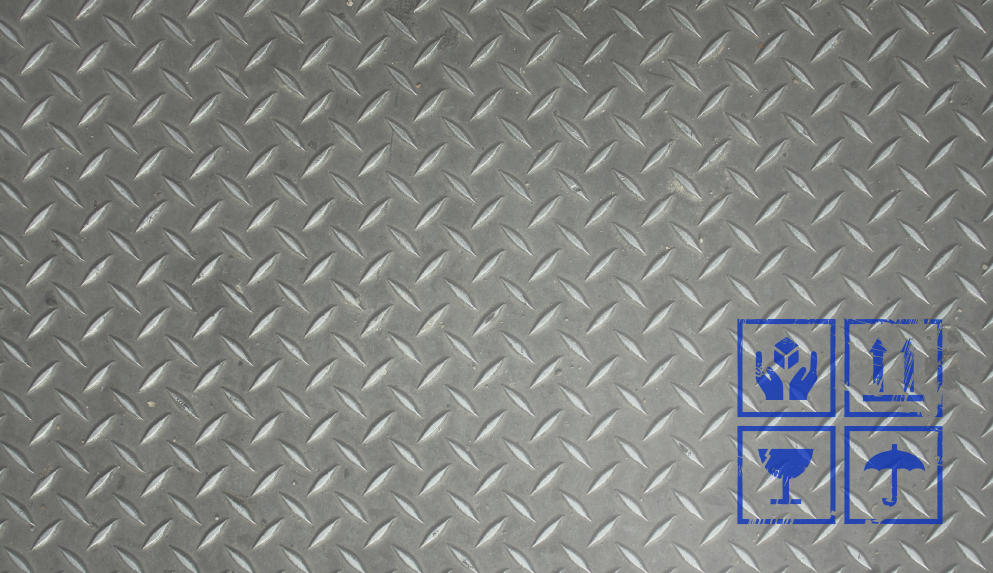
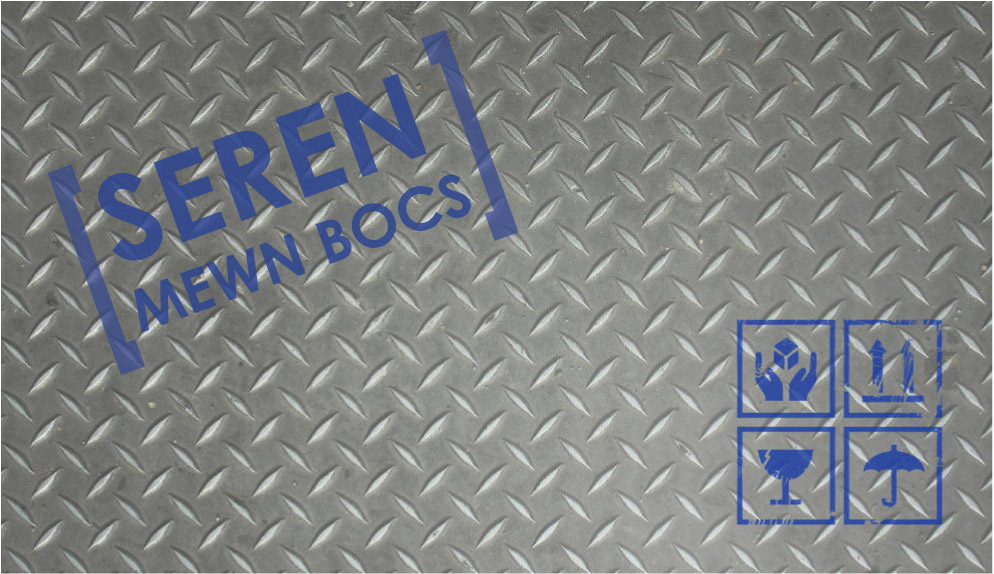
A new welsh language version

diff --git a/README.md b/README.md
@@ -17,6 +17,14 @@ Are you a teacher? Do you want to use Star in a Box in your classroom lessons? T
 * Beginners level -  [worksheet](https://docs.google.com/a/lcogt.net/document/d/1yPAWqjH8DxE-ZC4VIFZ8sLlhnmeyQl0nwvDixCiSoKs/edit) and [solutions](https://docs.google.com/a/lcogt.net/document/d/1mW_LjPX9wUMvwH_ZkGnYtkxO4h4WYFS8Uo1hre43538/edit)
 * Intermediate level - [worksheet](https://docs.google.com/document/d/18h5U27n_337Dj5Gx0GM2GaErgcoL81G80XpHKrkq0jE/edit) and [solutions](https://docs.google.com/document/d/15RtYlmsvhiFlaWVzgBRc-BvVVaAnb544t73i1mO9_xk/edit)
 
+Translations
+----
+
+Star in a Box can handle multiple languages. The simplest way to translate this app is:
+* Fill out the translation forms [normal](http://lcogt.net/siab/translate.html) and [advanced](http://lcogt.net/siab/translate_advanced.html),
+* Copy the JSON output at the bottom of the page
+* Then either email them to me (contact details on the translation page) or submit a pull request with the language file included.
+
 Code
 ----
 
